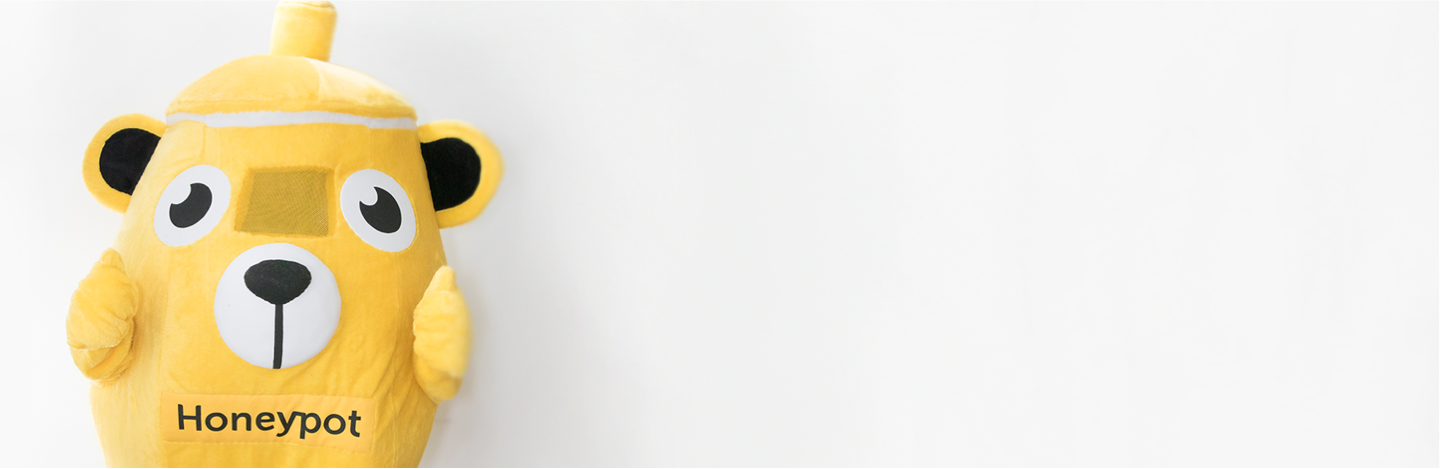
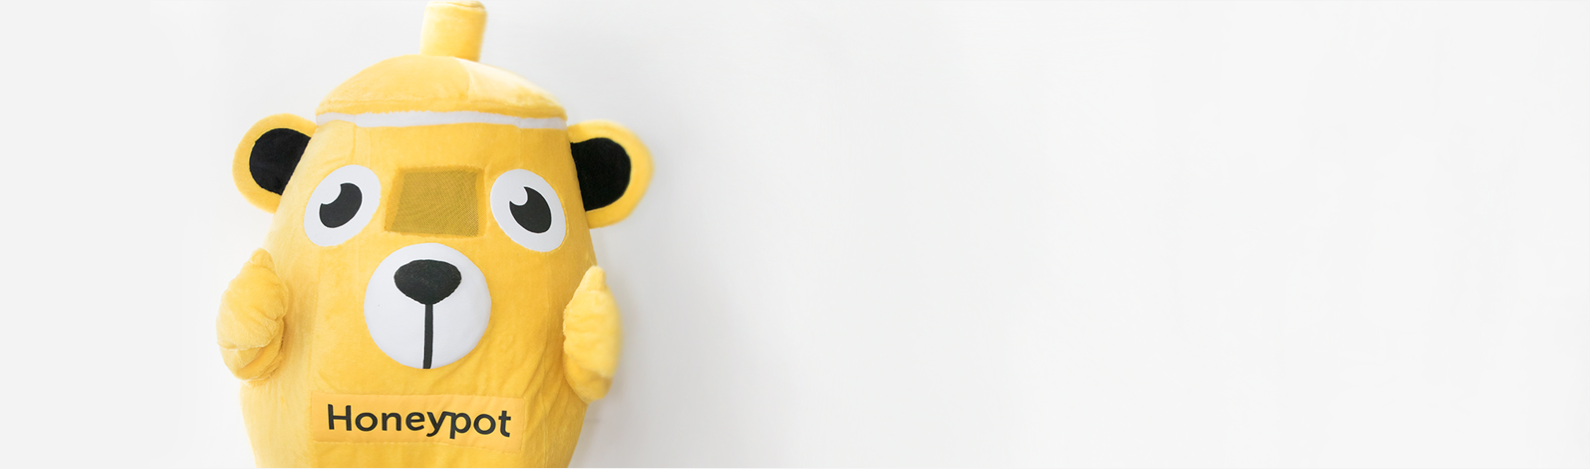
polish styling

Changed region(s): [[0.0312, 0.0, 0.4375, 1.0]]

diff --git a/app/styles/components/_about-hero-unit.scss b/app/styles/components/_about-hero-unit.scss
@@ -1,0 +1,66 @@
+.c-about-hero-unit {
+  display: flex;
+  justify-content: flex-end;
+  background: url('DIGEST(images/about_honeypot_bg-mobile.png)') bottom center no-repeat;
+  background-color: #f6f6f6;
+  background-position-y: 100%;
+  background-position-x: -21%;
+  padding: 0;
+  min-height: 709px;
+
+  @media #{$xs-up} {
+    background-size: 100%;
+  }
+
+  @media #{$sm-up} {
+    background: url('DIGEST(images/about_honeypot_bg-desktop.png)') bottom center no-repeat;
+    background-position: top right;
+    background-position-x: 30%;
+    min-height: 469px;
+  }
+
+  @media #{$lg-up} {
+    justify-content: flex-end;
+    background: url('DIGEST(images/about_honeypot_bg-desktop.png)') bottom center no-repeat;
+    background-size: cover;
+    background-position-x: 43%;
+    min-height: 469px;
+  }
+
+  @media #{$xl-up} {
+    justify-content: center;
+    background-size: 1590px;
+    background-position-x: 50%;
+    background-color: $light-gray-7-color;
+  }
+
+  &--aligned-right {
+    background: url('DIGEST(images/about_honeypot_bg_2-desktop.png)') bottom center no-repeat;
+    justify-content: flex-start;
+  }
+
+  &__text {
+    @include text($fs-4, $fw-light, $dark-gray-2-color);
+    padding: 60px 20px 0;
+    align-self: flex-start;
+    text-align: center;
+
+    @media #{$sm-up} {
+      width: 45%;
+      padding: 0 20px;
+      align-self: center;
+      font-size: $fs-5;
+    }
+
+    @media #{$md-up} {
+      @include text($fs-8, $fw-light, $dark-gray-2-color);
+      align-self: center;
+      width: 613px;
+    }
+
+    @media #{$xl-up} {
+      margin-left: 25%;
+    }
+  }
+
+}

diff --git a/app/styles/framework/overrides/_buttons.scss b/app/styles/framework/overrides/_buttons.scss
@@ -6,11 +6,6 @@
     text-decoration: none;
   }
 
-  &-blue {
-    @include button-variant($white-color, $blue-color, $blue-color);
-    text-transform: none;
-  }
-
   &-landing {
     @include text($fs-btn-landing, $fw-normal, $white-color);
     @include button-variant($white-color, $yellow-color, $yellow-color);
@@ -22,5 +17,15 @@
       padding: 12px 116px;
       border-radius: 36px;
     }
+  }
+
+  &-blue {
+    @include button-variant($white-color, $blue-color, $blue-color);
+    text-transform: none;
+  }
+
+  &-bigger {
+    padding: 15px 48px;
+    font-size: $fs-4;
   }
 }

diff --git a/app/styles/components/_about-team.scss b/app/styles/components/_about-team.scss
@@ -1,9 +1,28 @@
-.c-about-team {
+$about-team-width: 251px;
+
+.c-about-team-flex-container {
   display: flex;
   flex-wrap: wrap;
   justify-content: center;
+}
 
-  &__item {
+.c-about-team {
+  width: $about-team-width;
+  margin: 45px auto 0;
+  text-align: center;
+
+  @media #{$md-up} {
+    width: auto;
+    text-align: left;
+  }
+
+  @media #{$lg-up} {
+    width: $about-team-width;
+    margin: 0 auto;
+    text-align: center;
+  }
+
+  &--flex {
     margin: 45px 27px 0;
     flex-basis: 112px;
     text-align: center;

diff --git a/app/styles/application.scss b/app/styles/application.scss
@@ -10,7 +10,6 @@
 
 @import 'utilities/functions';
 @import 'utilities/mixins';
-@import 'utilities/shared';
 @import 'utilities/typography';
 @import '_jquery.cookiebar';
 @import 'utilities/cookie-policy';
@@ -46,4 +45,7 @@
 @import 'components/landing-pricing';
 @import 'components/landing-section';
 @import 'components/about-team';
+@import 'components/about-hero-unit';
+@import 'components/about-logos';
 
+@import 'utilities/shared';

diff --git a/app/styles/utilities/_shared.scss b/app/styles/utilities/_shared.scss
@@ -20,6 +20,12 @@ $directions: 'top', 'bottom', 'left', 'right';
   }
 }
 
+@each $dir in $directions {
+  .u-no-push-#{$dir} {
+    margin-#{$dir}: 0;
+  }
+}
+
 .u-no-margin {
   margin: 0;
 }
@@ -42,4 +48,8 @@ $directions: 'top', 'bottom', 'left', 'right';
 
 .u-semibold-text {
   font-weight: $fw-semibold;
+}
+
+.u-flex-container {
+  display: flex;
 }

diff --git a/app/styles/components/_landing-section.scss b/app/styles/components/_landing-section.scss
@@ -34,11 +34,4 @@
   &--bordered {
     border-bottom: 1px solid $light-gray-color;
   }
-
-  &--about {
-    padding: 300px 0;
-    background: url('DIGEST(images/about_honeypot_bg-desktop.png)') no-repeat;
-    background-color: #f6f6f6;
-    background-size: cover;
-  }
 }

diff --git a/app/styles/components/_explanation-showcase.scss b/app/styles/components/_explanation-showcase.scss
@@ -1,5 +1,4 @@
 .c-explanation-showcase {
-
   &__heading {
     @include text($fs-8, $fw-light, $almost-black-color);
 
@@ -127,10 +126,5 @@
     @media #{$md-up} {
       width: 738px;
     }
-  }
-
-  &__btn {
-    padding: 15px 48px;
-    font-size: $fs-4;
   }
 }

diff --git a/app/styles/settings/_variables.scss b/app/styles/settings/_variables.scss
@@ -15,6 +15,7 @@ $light-gray-3-color: #dddddd;
 $light-gray-4-color: #bebebe;
 $light-gray-5-color: #e3e8ef;
 $light-gray-6-color: #f9f9f9;
+$light-gray-7-color: #f3f3f3;
 $gray-color: #94a2b3;
 $gray-2-color: #757575;
 $gray-3-color: #858b97;

diff --git a/app/styles/settings/_breakpoint-variables.scss b/app/styles/settings/_breakpoint-variables.scss
@@ -10,3 +10,5 @@ $md-down: '(max-width: #{$screen-md-max})';
 $md-only: '(min-width: #{$screen-md-min}) and (max-width: #{$screen-md-max})';
 
 $lg-up:   '(min-width: #{$screen-lg-min})';
+
+$xl-up:   '(min-width: #{$screen-lg-min + 200px})';

diff --git a/app/styles/components/_about-logos.scss b/app/styles/components/_about-logos.scss
@@ -1,0 +1,11 @@
+.c-about-logos {
+  padding: 40px 0 20px;
+  display: flex;
+  flex-wrap: wrap;
+  justify-content: center;
+
+  &__item {
+    margin: 20px;
+    align-self: center;
+  }
+}

diff --git a/app/styles/components/_explanation-header.scss b/app/styles/components/_explanation-header.scss
@@ -18,9 +18,4 @@
       font-size: $fs-8;
     }
   }
-
-  &__btn {
-    padding: 15px 48px;
-    font-size: $fs-4;
-  }
 }
